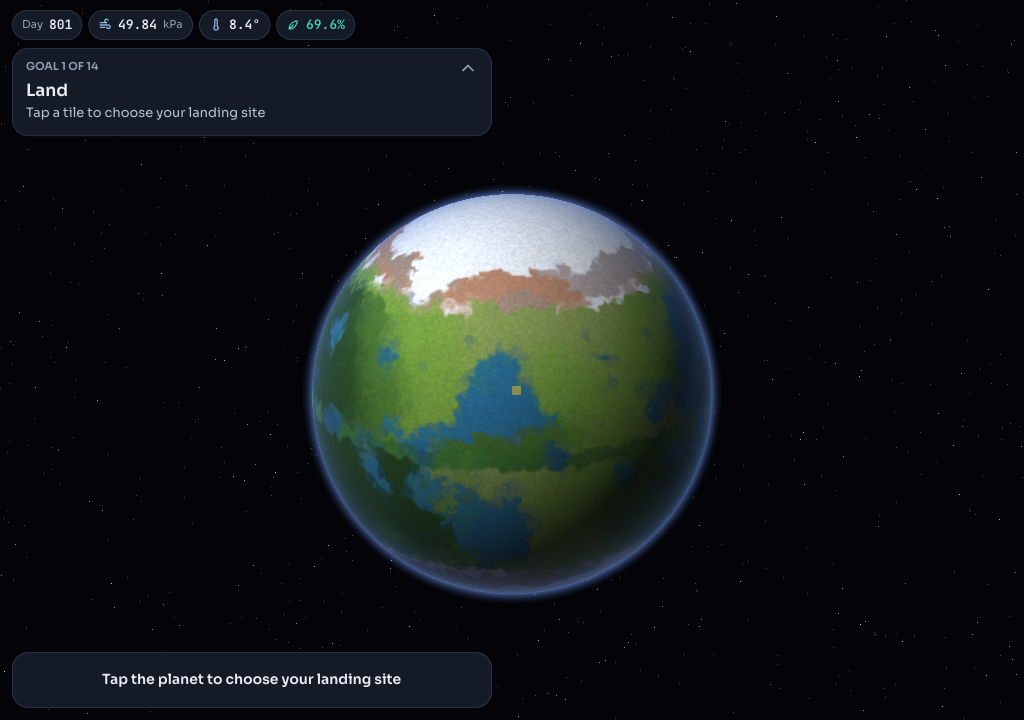
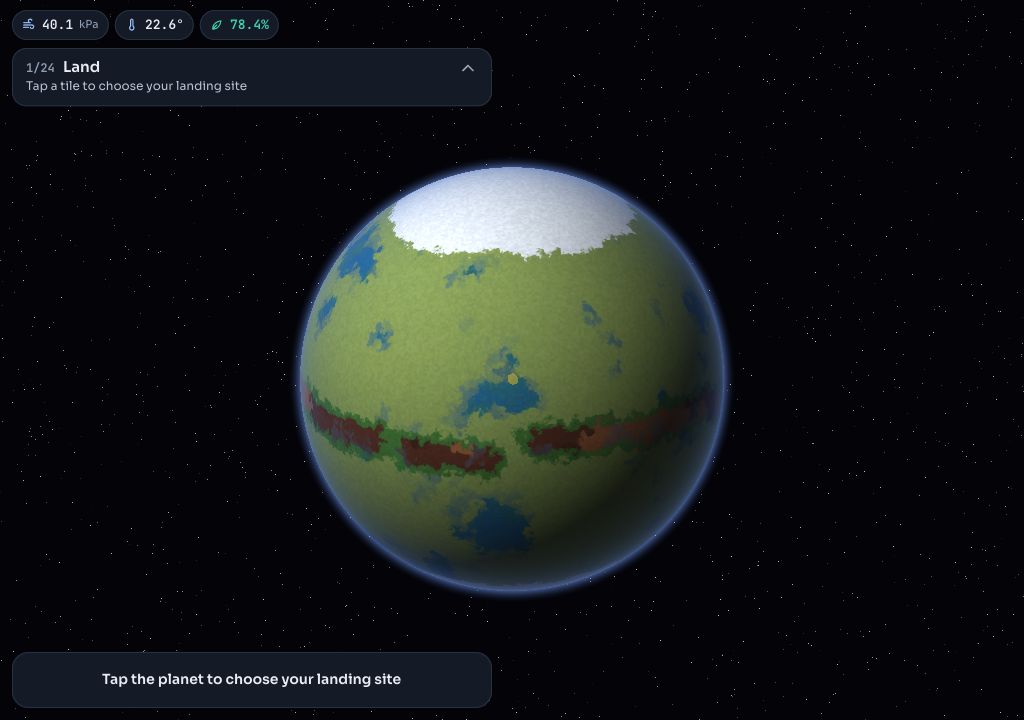
README: new screenshots of the current game
All six were from before the hex grid and the current UI.

Claude-Session: https://claude.ai/code/session_01Tsa7NWTFAXJFeYNhAWDLwZ

Changed region(s): [[0.0, 0.0, 0.7188, 0.7639], [0.4062, 0.7944, 0.5938, 0.8556], [0.5938, 0.4583, 0.625, 0.4889]]

diff --git a/README.md b/README.md
@@ -7,10 +7,10 @@ shape a barren planet until life takes hold. See
 [docs/tech-stack.md](docs/tech-stack.md) for the design and technical plan.
 
 ![Starting planet](docs/images/globe-prototype.png)
-![After warming: seas and microbes](docs/images/terraformed.png)
-![A small colony: lander, solar, mine, smelter and heater](docs/images/colony.png)
-![Main screen](docs/images/ui-main.png)
-![Inspect panel](docs/images/ui-inspect.png)
+![After warming: the first seas and life](docs/images/terraformed.png)
+![A colony with one of every building, and its pollution](docs/images/colony.png)
+![Main screen: goal card, alert, map views, speed and tools](docs/images/ui-main.png)
+![Inspecting a heater that's short of power](docs/images/ui-inspect.png)
 ![A living planet: seas, grassland and forest](docs/images/late-game.png)
 
 ## Download
